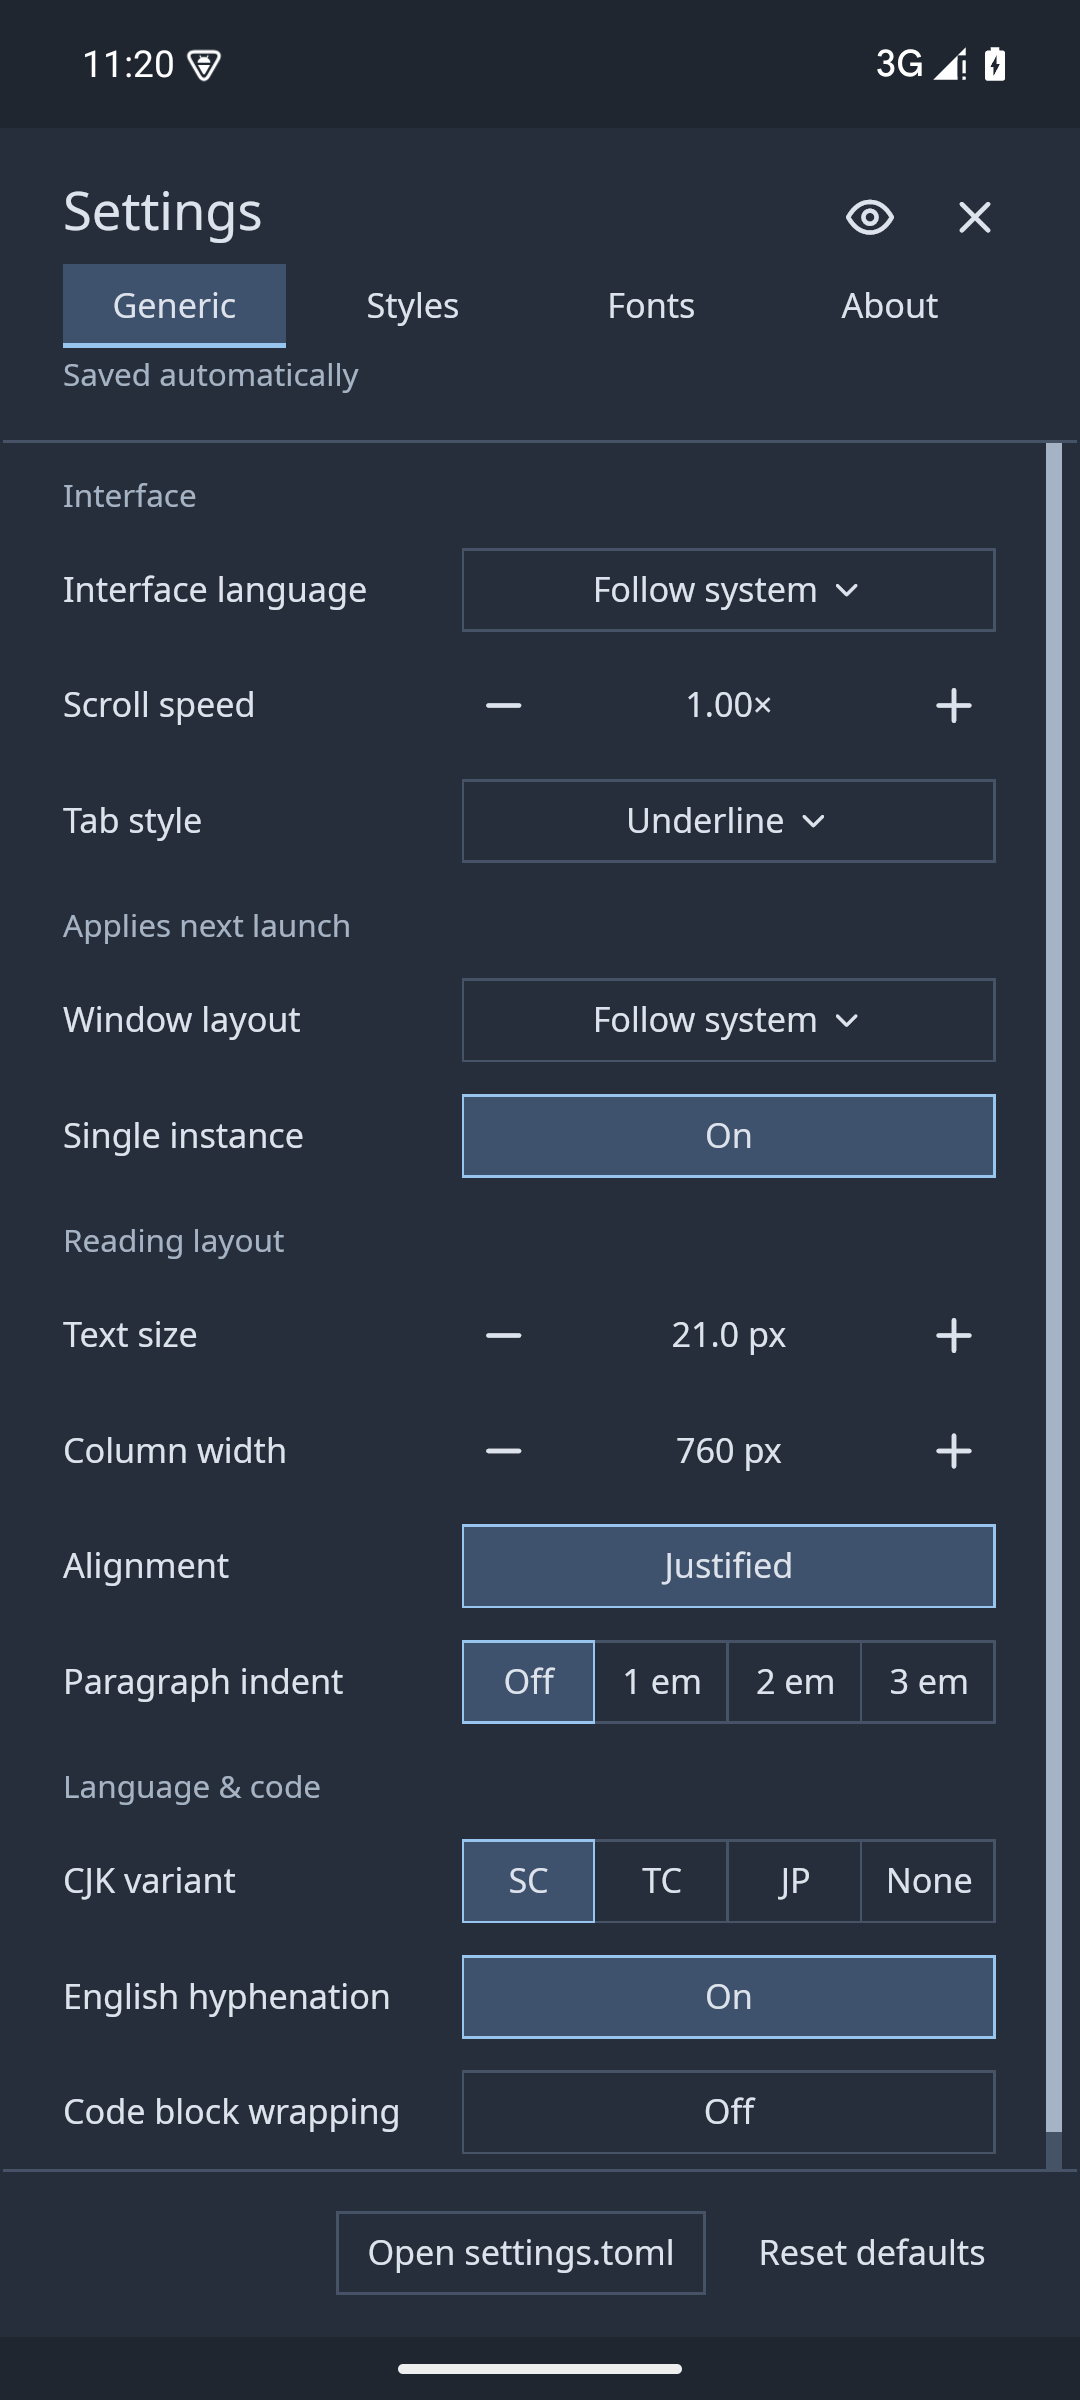
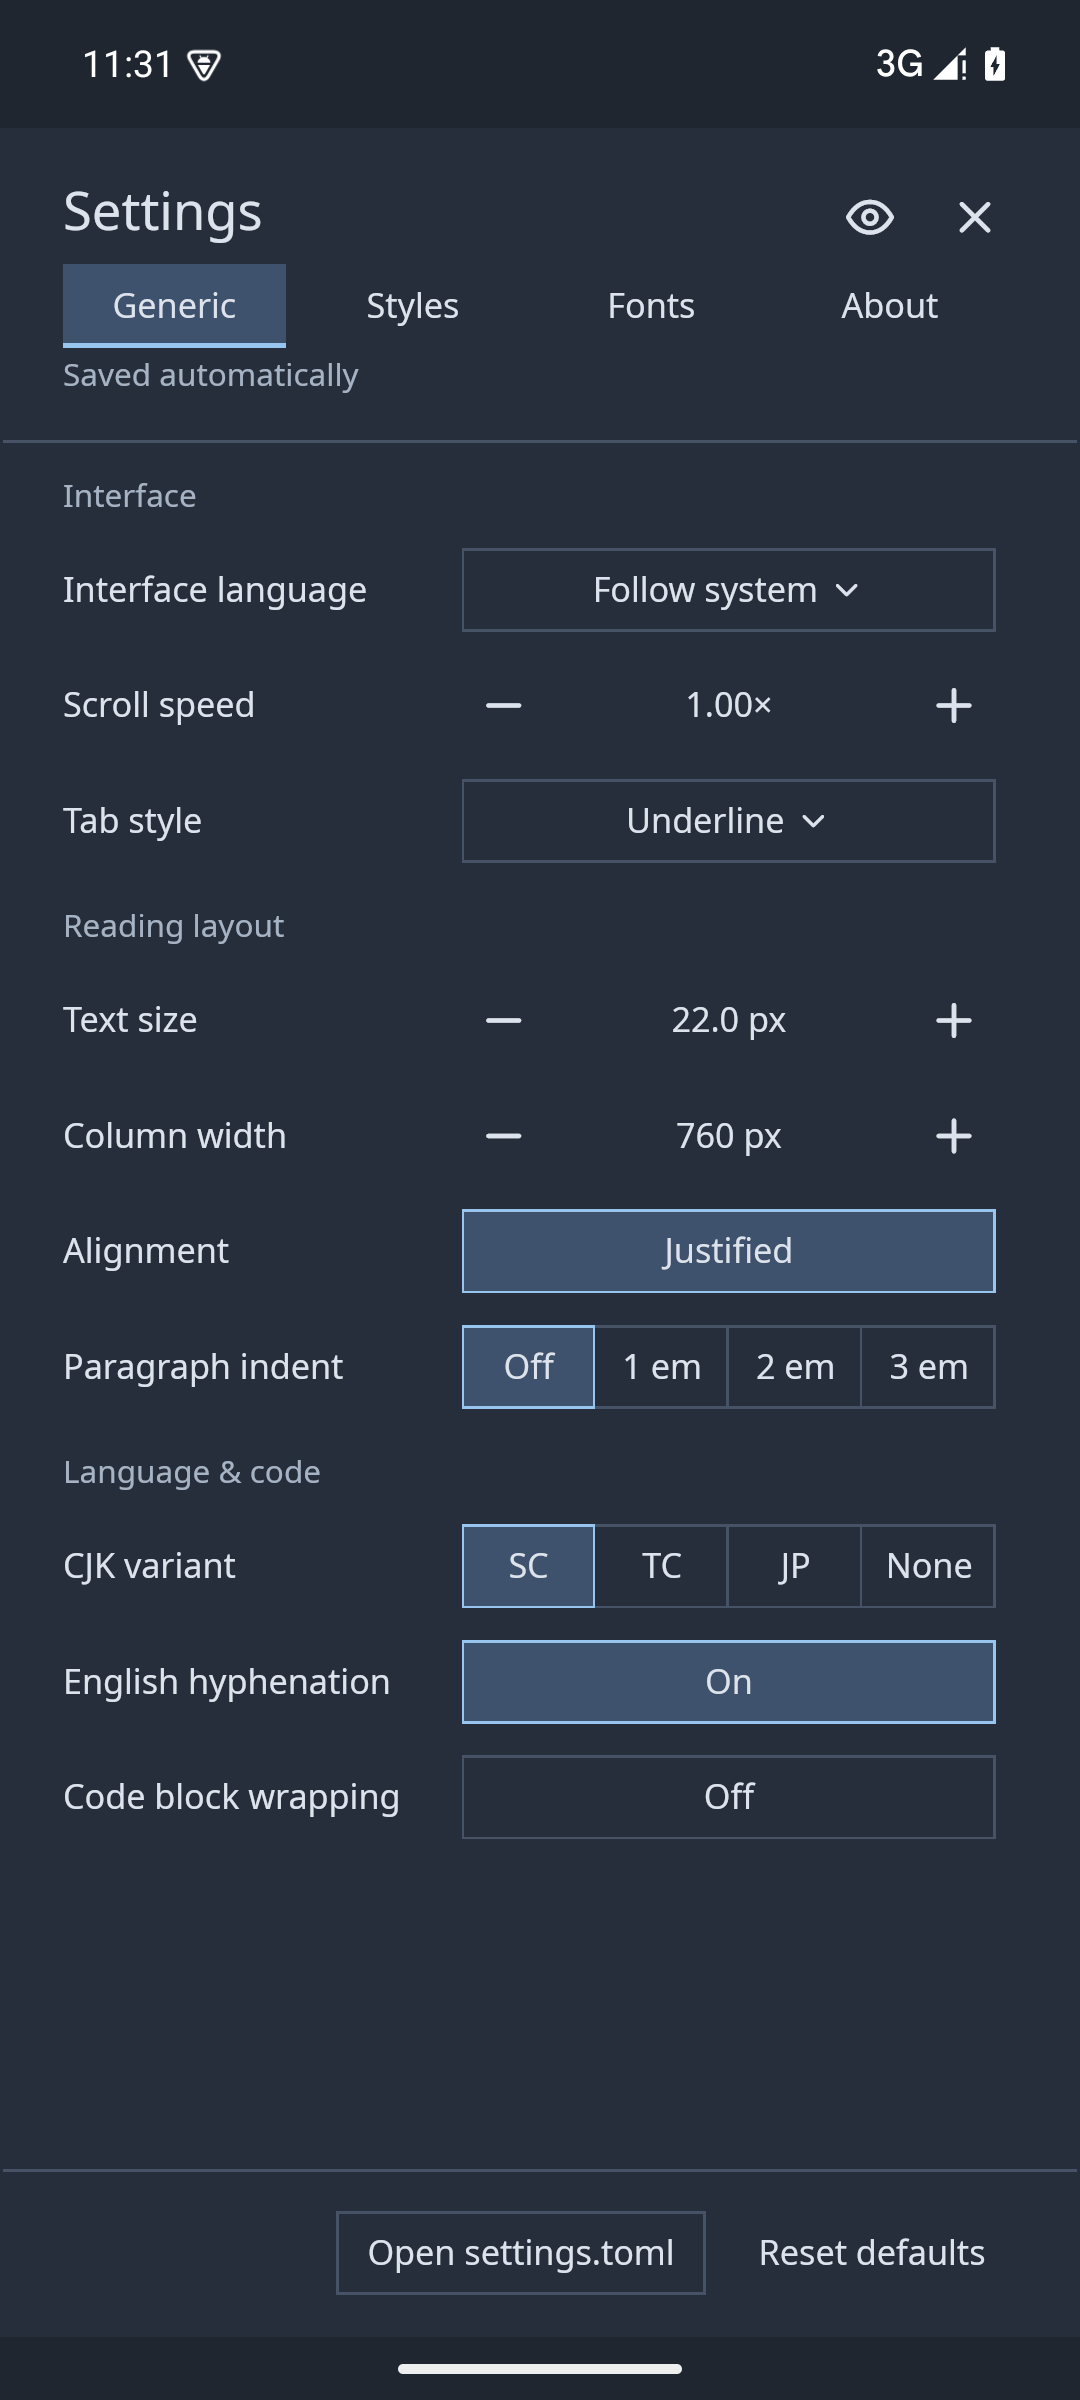
fix: hide desktop-only settings on android

diff --git a/android/tests/io/github/szdytom/markview/Smoke.java b/android/tests/io/github/szdytom/markview/Smoke.java
@@ -31,8 +31,15 @@ public class Smoke extends Instrumentation {
         try {
             require("Markview".contentEquals(getTargetContext().getApplicationInfo().loadLabel(getTargetContext().getPackageManager())), "Application display name");
             pass("Markview application display name");
+            File config = new File(getTargetContext().getFilesDir(), "markview/settings.toml");
+            config.getParentFile().mkdirs();
+            String stored = config.exists() ? new String(Files.readAllBytes(config.toPath()), StandardCharsets.UTF_8) : "";
+            stored = "window-layout = \"macos\"\nsingle-instance = true\n" + stored.replaceAll("(?m)^(window-layout|single-instance) *=.*\\R?", "");
+            Files.write(config.toPath(), stored.getBytes(StandardCharsets.UTF_8));
             activity = startActivitySync(intent("reader.md", Intent.ACTION_VIEW));
             JSONObject initial = waitFor(s -> s.optBoolean("ready") && s.optInt("blocks") > 20 && loadedImages(s) >= 2);
+            require(initial.getString("window_layout").equals("Macos") && initial.getBoolean("single_instance"), "Saved desktop options loaded");
+            require(!initial.getString("frame_layout").equals("Macos") && !initial.getBoolean("instance_listener"), "Saved desktop options do not affect Android");
             require(initial.getInt("math_errors") == 0, "Mathematics layout");
             require(initial.getString("backend").equals("Vulkan") || initial.getString("backend").equals("Gl"), "GPU backend");
             stableLayout();
@@ -55,6 +62,9 @@ public class Smoke extends Instrumentation {
             tap("Settings");
             waitFor(s -> s.optString("panel").equals("Settings(Generic)"));
             requireFullscreenSettings();
+            JSONObject settingsState = state();
+            require(button(settingsState, "ToggleDropdown(WindowLayout") == null && button(settingsState, "SingleInstance") == null,
+                "Desktop-only window and instance controls are absent");
             screenshot("settings");
             for (int i = 0; i < 8 && button(state(), "Larger") == null; i++) { swipe(180, 550, 180, 270); swipe(180, 223, 180, 223); }
             double font = state().getDouble("font_size");
@@ -93,6 +103,7 @@ public class Smoke extends Instrumentation {
             waitFor(s -> s.optString("panel").equals("Settings(Styles)"));
             sendKeyDownUpSync(KeyEvent.KEYCODE_BACK);
             waitFor(s -> s.optString("panel").equals("Closed"));
+            require(!state().getBoolean("instance_listener"), "Android does not register the desktop instance listener");
             pass("Shared settings, typography, font imports, catalogue and styles");
 
             tap("SearchOpen");

diff --git a/src/app/chrome/controls.rs b/src/app/chrome/controls.rs
@@ -52,7 +52,7 @@ fn rows(settings: &ReaderSettings) -> Vec<Row> {
 	// Choosing a stylesheet is the Styles tab's own job, and choosing a family
 	// for a role the Fonts tab's, so this page offers neither.
 	let t = settings.lang();
-	vec![
+	let mut rows = vec![
 		Row::new(t.settings_language(), vec![])
 			.menu(DropdownId::Language, language_options(t, settings))
 			.section(t.section_interface()),
@@ -85,38 +85,50 @@ fn rows(settings: &ReaderSettings) -> Vec<Row> {
 				Some(Command::TabStyle(settings.tab_style)),
 			),
 		),
-		Row::new(t.settings_window_layout(), vec![])
-			.menu(
-				DropdownId::WindowLayout,
-				choices(
-					&[
-						(
-							t.settings_language_system(),
-							Command::WindowLayout(WindowLayout::System),
-						),
-						("macOS", Command::WindowLayout(WindowLayout::Macos)),
-						(
-							"Windows",
-							Command::WindowLayout(WindowLayout::Windows),
-						),
-						("Linux", Command::WindowLayout(WindowLayout::Linux)),
-					],
-					Some(Command::WindowLayout(settings.window_layout)),
-				),
-			)
-			.section(t.section_next_launch()),
-		Row::new(
-			t.settings_single_instance(),
-			vec![action(
-				if settings.single_instance {
-					t.settings_on()
-				} else {
-					t.settings_off()
-				},
-				settings.single_instance,
-				Command::SingleInstance,
-			)],
-		),
+	];
+	if !cfg!(target_os = "android") {
+		rows.extend([
+			Row::new(t.settings_window_layout(), vec![])
+				.menu(
+					DropdownId::WindowLayout,
+					choices(
+						&[
+							(
+								t.settings_language_system(),
+								Command::WindowLayout(WindowLayout::System),
+							),
+							(
+								"macOS",
+								Command::WindowLayout(WindowLayout::Macos),
+							),
+							(
+								"Windows",
+								Command::WindowLayout(WindowLayout::Windows),
+							),
+							(
+								"Linux",
+								Command::WindowLayout(WindowLayout::Linux),
+							),
+						],
+						Some(Command::WindowLayout(settings.window_layout)),
+					),
+				)
+				.section(t.section_next_launch()),
+			Row::new(
+				t.settings_single_instance(),
+				vec![action(
+					if settings.single_instance {
+						t.settings_on()
+					} else {
+						t.settings_off()
+					},
+					settings.single_instance,
+					Command::SingleInstance,
+				)],
+			),
+		]);
+	}
+	rows.extend([
 		Row::new(
 			t.settings_text_size(),
 			choices(
@@ -205,7 +217,8 @@ fn rows(settings: &ReaderSettings) -> Vec<Row> {
 				Command::CodeWrap,
 			)],
 		),
-	]
+	]);
+	rows
 }
 pub(in crate::app) fn form(
 	ui: &mut TextShaper,

diff --git a/src/app/android.rs b/src/app/android.rs
@@ -112,6 +112,10 @@ impl<P: super::SendEvent> App<P> {
 			"scroll": session.scrolling.offset, "height": session.snapshot.height,
 			"images": session.snapshot.images.entries.iter().map(|(src,info)| serde_json::json!({"src":src,"size":info.size,"error":info.error})).collect::<Vec<_>>(),
 			"selected_styles": self.preferences.values.style,
+			"window_layout":format!("{:?}", self.preferences.values.window_layout),
+			"frame_layout":format!("{:?}", self.frame.layout),
+			"single_instance":self.preferences.values.single_instance,
+			"instance_listener":self.instance.is_some(),
 			"theme": self.preferences.values.theme, "font_size":self.preferences.values.font_size,
 			"font_catalog": self.font_panel.view().catalog.len(),
 			"styles":self.preferences.style_entries.iter().map(|e|e.id.clone()).collect::<Vec<_>>(),

diff --git a/src/app/single_instance.rs b/src/app/single_instance.rs
@@ -117,7 +117,10 @@ pub(super) fn start(
 
 impl<P: super::SendEvent> super::App<P> {
 	pub(super) fn register_instance(&mut self) {
-		if self.instance.is_some() || !self.preferences.values.single_instance {
+		if cfg!(target_os = "android")
+			|| self.instance.is_some()
+			|| !self.preferences.values.single_instance
+		{
 			return;
 		}
 		let Some(lock) = &self.instance_path else {

diff --git a/src/app/frame.rs b/src/app/frame.rs
@@ -38,6 +38,11 @@ pub(super) struct State {
 }
 impl State {
 	pub fn new(layout: WindowLayout) -> Self {
+		let layout = if cfg!(target_os = "android") {
+			WindowLayout::System
+		} else {
+			layout
+		};
 		Self {
 			layout: layout.resolved(),
 			focused: true,

diff --git a/android/README.md b/android/README.md
@@ -40,8 +40,9 @@ entry point is `src/app/android.rs`; OS calls live in `src/platform/android.rs`
 and `android/java`. This shares the application above `core`, including its
 state and UI. Below 640 logical pixels, settings occupy the entire app content
 area; wider screens retain the centered dialog. Narrow forms stack labels above
-controls. System bars and the keyboard are excluded from the
-reader's content area.
+controls. Desktop window-layout and single-instance settings are hidden and
+ignored on Android; Android reuses the `singleTask` activity. System bars and
+the keyboard are excluded from the reader's content area.
 
 ## Build and install
 

diff --git a/CHANGELOG.md b/CHANGELOG.md
@@ -47,6 +47,7 @@ at the same level, without `[brackets]`.
 
 ### Fixed
 
+- Hide desktop window-layout and single-instance options on Android and ignore their saved runtime values.
 - Make settings fill the app content area on narrow screens, keeping centered dialogs on wider screens.
 - Preserve reading positions inside large images when returning to cached tabs, retaining bounded intrinsic sizes while releasing inactive pixels.
 
